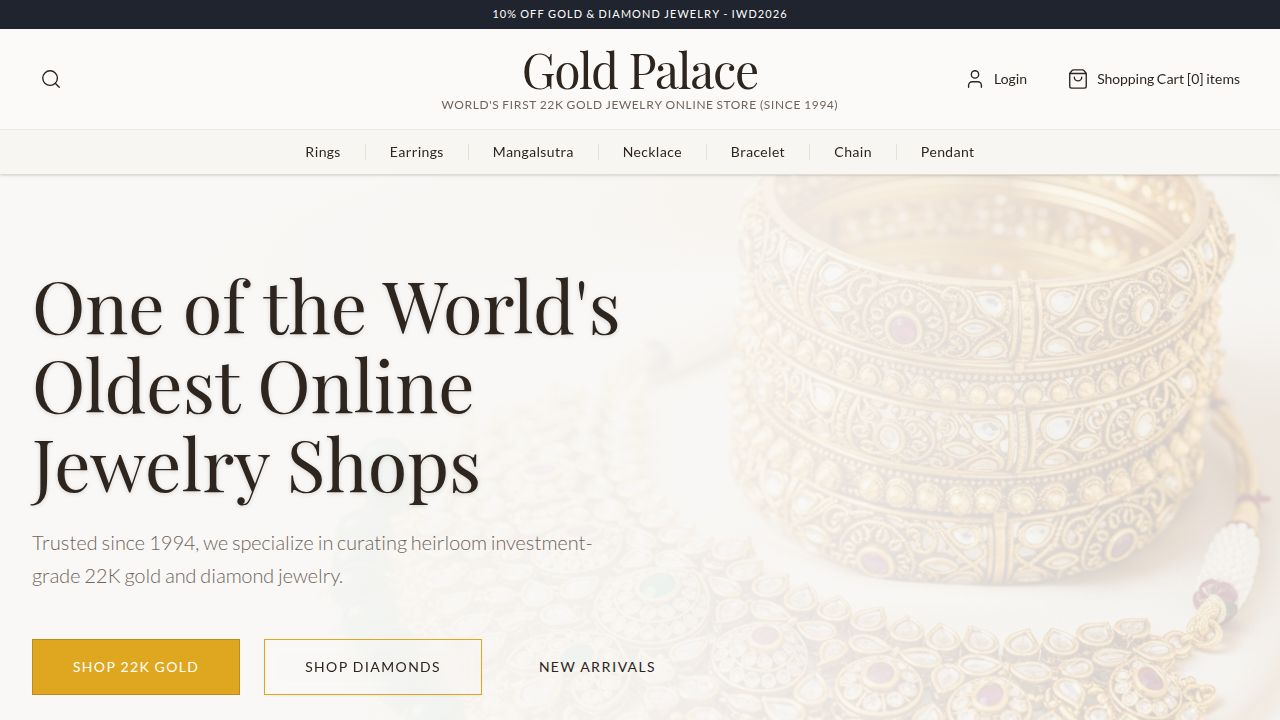
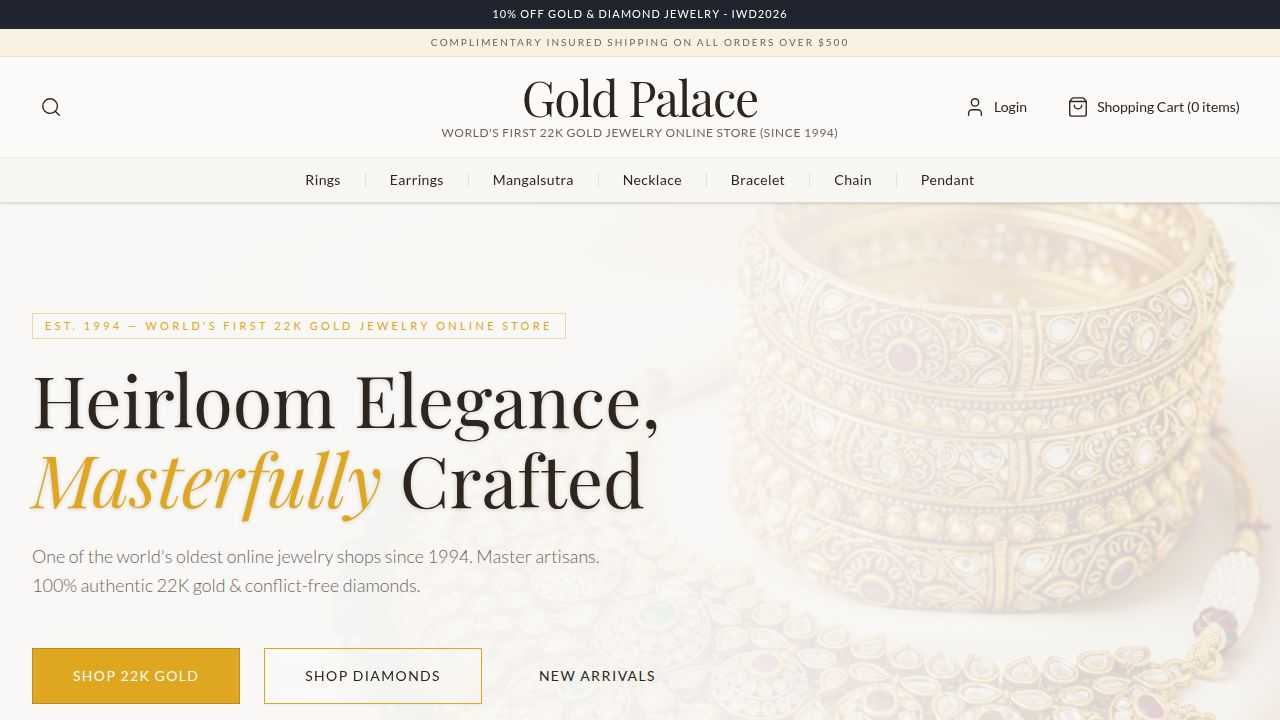
Enhance website with shipping information and update hero section content
Update navbar with shipping strip and adjust cart display. Modify home page hero section, add Bridal Trousseau section, and implement dynamic discount percentage calculation for trending items.

Replit-Commit-Author: Agent
Replit-Commit-Session-Id: ea71f70c-fb0a-49f8-87c9-f55a27306c4a
Replit-Commit-Checkpoint-Type: full_checkpoint
Replit-Commit-Event-Id: 68ce0d19-e812-4715-af88-2fe674145eb7
Replit-Commit-Screenshot-Url: https://storage.googleapis.com/screenshot-production-us-central1/8d37df78-43df-41a0-90e8-03b59dc1ade1/ea71f70c-fb0a-49f8-87c9-f55a27306c4a/1SkIKJ6
Replit-Helium-Checkpoint-Created: true

diff --git a/artifacts/gold-palace/src/pages/home.tsx b/artifacts/gold-palace/src/pages/home.tsx
@@ -84,6 +84,14 @@ export default function Home() {
     );
   };
 
+  const getDiscountPct = (price: string, originalPrice?: string | null) => {
+    if (!originalPrice) return null;
+    const sale = parseFloat(price.replace(/[^0-9.]/g, ""));
+    const orig = parseFloat(originalPrice.replace(/[^0-9.]/g, ""));
+    if (!orig || orig <= sale) return null;
+    return Math.round((1 - sale / orig) * 100);
+  };
+
   const handleAddToCart = (productId: number) => {
     if (!user) {
       setLocation("/login");
@@ -123,11 +131,16 @@ export default function Home() {
           
           <div className="relative z-10 container mx-auto px-4 md:px-8 flex flex-col items-start justify-center h-full">
             <div className="max-w-2xl text-left">
+              <span className="inline-block text-[11px] font-medium tracking-[0.3em] text-primary uppercase mb-5 border border-primary/40 px-3 py-1">
+                Est. 1994 — World's First 22K Gold Jewelry Online Store
+              </span>
               <h1 className="text-4xl md:text-6xl lg:text-7xl font-serif text-foreground mb-6 leading-[1.1] drop-shadow-sm">
-                One of the World's Oldest Online Jewelry Shops
+                Heirloom Elegance,{" "}
+                <span className="italic text-primary">Masterfully</span>{" "}
+                Crafted
               </h1>
-              <p className="text-lg md:text-xl text-muted-foreground mb-12 font-light leading-relaxed max-w-xl">
-                Trusted since 1994, we specialize in curating heirloom investment-grade 22K gold and diamond jewelry.
+              <p className="text-base md:text-lg text-muted-foreground mb-12 font-light leading-relaxed max-w-xl">
+                One of the world's oldest online jewelry shops since 1994. Master artisans. 100% authentic 22K gold &amp; conflict-free diamonds.
               </p>
               <div className="flex flex-col sm:flex-row gap-6 justify-start items-center">
                 <Button size="lg" className="bg-primary text-primary-foreground hover:bg-primary/90 text-sm tracking-widest uppercase h-14 px-10 rounded-none w-full sm:w-auto">
@@ -201,6 +214,28 @@ export default function Home() {
           </div>
         </section>
 
+        {/* BRIDAL TROUSSEAU SECTION */}
+        <section className="py-24 bg-secondary text-white relative overflow-hidden">
+          <div className="absolute inset-0 opacity-20 pointer-events-none">
+            <img src="/images/hero-bright.png" alt="" className="w-full h-full object-cover object-right" />
+            <div className="absolute inset-0 bg-gradient-to-r from-secondary via-secondary/90 to-secondary/40"></div>
+          </div>
+          <div className="container mx-auto px-4 md:px-8 relative z-10">
+            <div className="max-w-xl">
+              <span className="inline-block text-[10px] font-medium tracking-[0.3em] text-primary uppercase mb-5 border border-primary/40 px-3 py-1">
+                Exclusive Collection
+              </span>
+              <h2 className="font-serif text-4xl md:text-5xl mb-6 leading-tight">The Bridal Trousseau</h2>
+              <p className="text-white/70 text-base mb-10 font-light leading-relaxed">
+                Complete your special day with our exclusive collection of 22K gold antique bridal sets — rich with cultural heritage, heavy with gold, and treasured for generations.
+              </p>
+              <Button className="bg-primary text-primary-foreground hover:bg-white hover:text-secondary rounded-none h-12 px-10 uppercase tracking-widest text-sm font-medium transition-colors">
+                Explore Bridal
+              </Button>
+            </div>
+          </div>
+        </section>
+
         {/* NEW ARRIVALS */}
         <section id="new-arrivals" className="py-24 bg-muted/30 border-y border-border/50">
           <div className="container mx-auto px-4 md:px-8">
@@ -236,8 +271,9 @@ export default function Home() {
                     </span>
                     <h3 className="font-sans text-sm text-foreground mb-2 leading-relaxed flex-1">{product.name}</h3>
                     
-                    {/* Fake weight info for demonstration since it's not in the type, but requested */}
-                    <span className="text-xs text-muted-foreground mb-4">22K Gold</span>
+                    <span className="text-xs text-muted-foreground mb-4">
+                      {product.weight ? product.weight : "22K Gold"}
+                    </span>
                     
                     <p className="font-serif text-lg font-medium text-foreground mb-6">{product.price}</p>
                     
@@ -291,9 +327,14 @@ export default function Home() {
                 <div key={product.id} className="bg-card p-4 border border-border hover:shadow-md transition-shadow flex flex-col h-full group relative" data-testid={`product-card-${product.id}`}>
                   
                   {/* Discount Badge */}
-                  <div className="absolute top-6 left-6 z-10 bg-destructive text-white text-[11px] font-bold px-3 py-1.5 uppercase tracking-wider">
-                    -25%
-                  </div>
+                  {(() => {
+                    const pct = getDiscountPct(product.price, product.originalPrice);
+                    return pct ? (
+                      <div className="absolute top-6 left-6 z-10 bg-destructive text-white text-[11px] font-bold px-3 py-1.5 uppercase tracking-wider">
+                        -{pct}%
+                      </div>
+                    ) : null;
+                  })()}
 
                   <div className="relative aspect-square mb-5 bg-muted/20 overflow-hidden">
                     <img 
@@ -308,6 +349,10 @@ export default function Home() {
                       {product.categoryId ? categories?.find(c => c.id === product.categoryId)?.name || 'Jewelry' : 'Jewelry'}
                     </span>
                     <h3 className="font-sans text-sm text-foreground mb-2 leading-relaxed flex-1">{product.name}</h3>
+                    
+                    <span className="text-xs text-muted-foreground mb-3">
+                      {product.weight ? product.weight : "18K Gold"}
+                    </span>
                     
                     <div className="flex items-center justify-center gap-3 mb-6">
                       {product.originalPrice && (

diff --git a/artifacts/gold-palace/src/components/navbar.tsx b/artifacts/gold-palace/src/components/navbar.tsx
@@ -35,7 +35,11 @@ export function Navbar() {
     <header className="sticky top-0 left-0 right-0 z-50 bg-background flex flex-col border-b border-border shadow-sm">
       {/* TOP PROMO STRIP */}
       <div className="bg-secondary text-white py-1.5 text-center text-[11px] font-medium tracking-widest uppercase w-full">
-        10% OFF GOLD & DIAMOND JEWELRY - IWD2026
+        10% OFF GOLD &amp; DIAMOND JEWELRY - IWD2026
+      </div>
+      {/* SHIPPING STRIP */}
+      <div className="bg-primary/10 border-b border-primary/20 py-1.5 text-center text-[10px] font-medium tracking-[0.2em] text-foreground/70 uppercase w-full">
+        Complimentary Insured Shipping on all orders over $500
       </div>
 
       {/* MAIN HEADER ROW */}
@@ -102,7 +106,7 @@ export function Navbar() {
               )}
             </div>
             <span className="hidden xl:inline-block text-sm font-medium">
-              Shopping Cart {user && cart ? `[${cart.length}]` : '[0]'} items
+              Shopping Cart ({user && cart ? cart.length : 0} items)
             </span>
           </button>
         </div>
